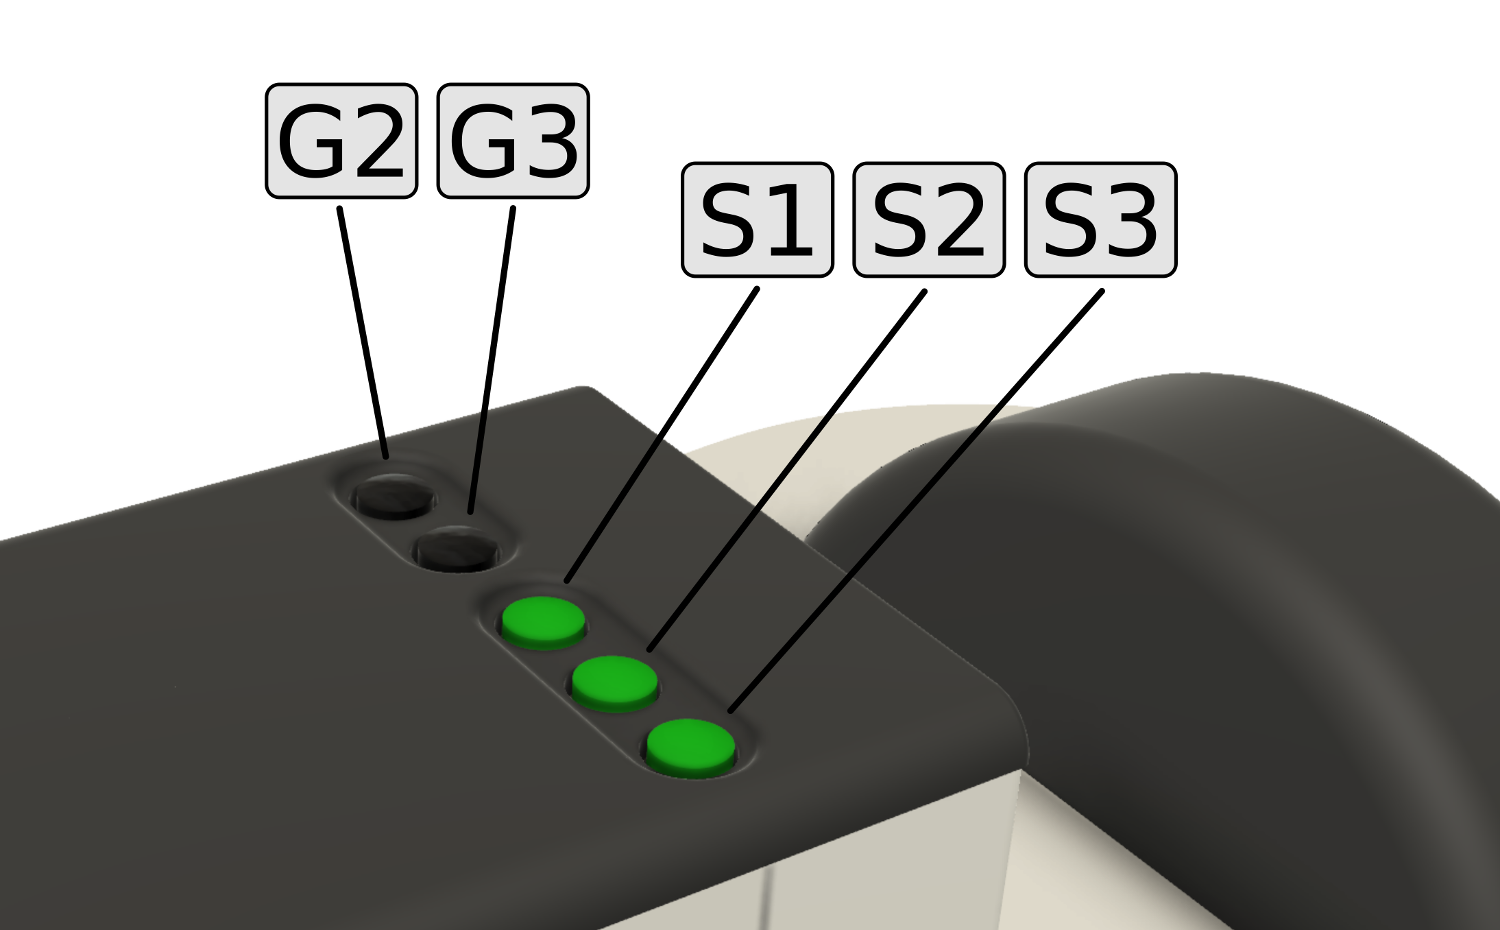
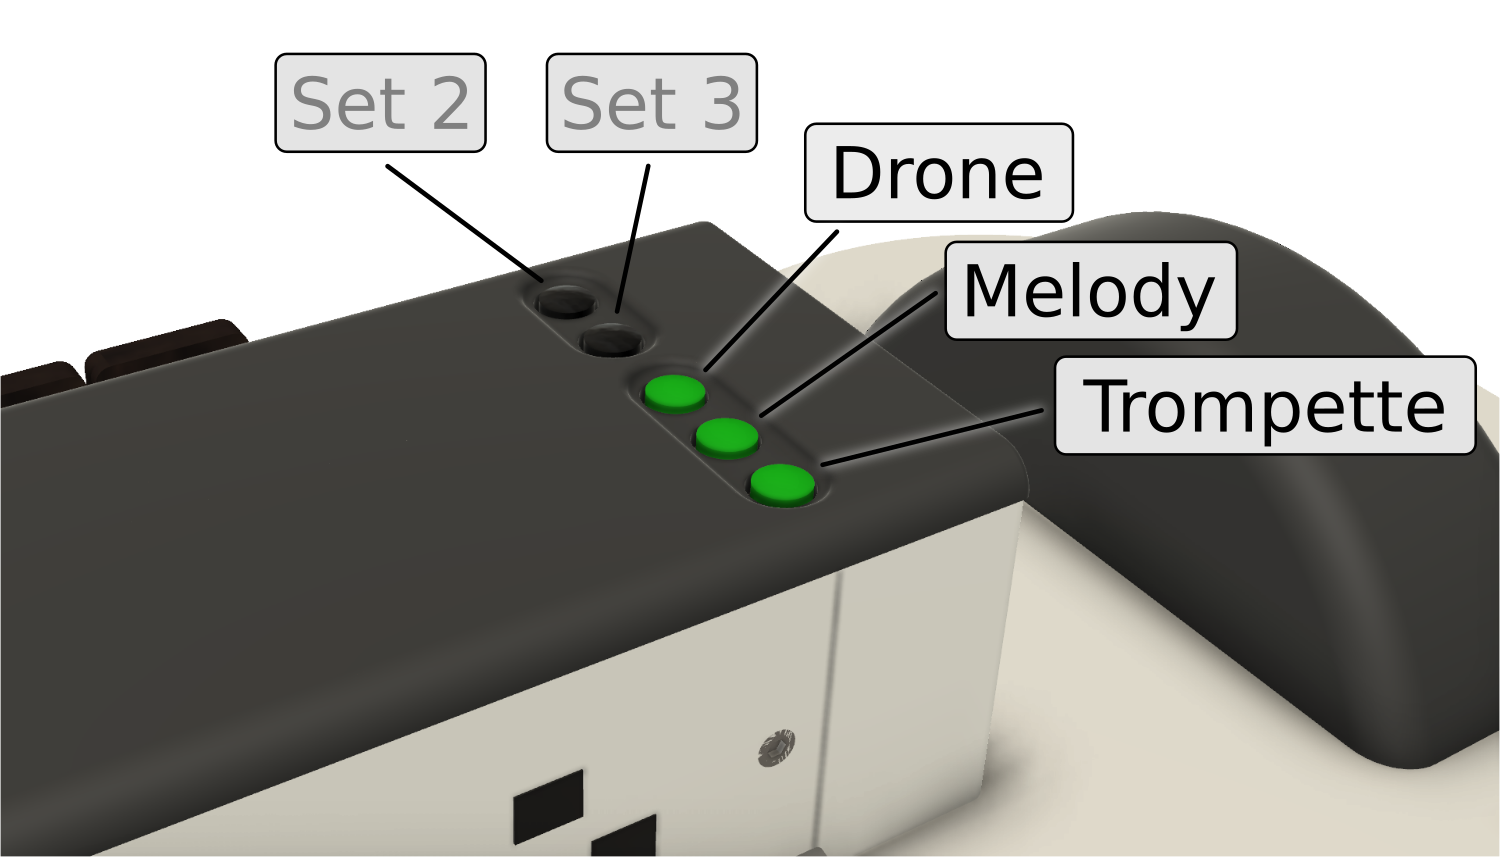
Clarify string and string group buttons. Fixes midigurdy/midigurdy#31

diff --git a/source/Getting_to_know_the_MidiGurdy.rst b/source/Getting_to_know_the_MidiGurdy.rst
@@ -108,52 +108,48 @@ The lid of the tangent box contains five buttons, arranged in two groups. Let’
 look at the group of three buttons closest to the player first, called the
 “String Buttons“.
 
-The String Buttons (S1 S2 S3)
-~~~~~~~~~~~~~~~~~~~~~~~~~~~~~
+The String Buttons (Drone, Melody, Trompette)
+~~~~~~~~~~~~~~~~~~~~~~~~~~~~~~~~~~~~~~~~~~~~~
 
 These buttons are used to switch individual strings on and off (lift them on
 and off the wheel). The order of the buttons follows the string positions on
 an acoustic hurdy-gurdy:
 
-*   **S1** drone string (closest to the keyboard)
+*   **Drone string**, closest to the keyboard
 
-*   **S2** melody string (centre)
+*   **Melody string**, in the middle
 
-*   **S3** trompette string (closest to the player)
+*   **Trompette string**, closest to the player
 
 
 Press any of these buttons, turn the crank and notice how the string sound gets
 switched on or off. An illuminated button means the string is currently
 switched on.
 
-The Group Buttons (G2 G3)
-~~~~~~~~~~~~~~~~~~~~~~~~~
+The String Set Buttons (Set 2 and Set 3)
+~~~~~~~~~~~~~~~~~~~~~~~~~~~~~~~~~~~~~~~~
 
-The two black buttons on the tangent box lid are called the “Group“ buttons.
-The MidiGurdy has a total of nine strings but only three String Buttons for
-switching the strings on and off. This is why the Strings are arranged in three
-groups:
+The two black buttons on the tangent box lid are called the “String Set“
+buttons.  As the MidiGurdy only has one button for each string type (drone,
+melody, trompette) but three possible strings for each type, the string set
+buttons can be used to control the other two strings of each type.
 
-* Group 1 – Drone 1, Melody 1, Trompette 1 (activated by default)
+If you only press the String Buttons **Drone**, **Melody** or **Trompette** you
+are switching the first string of each type.
 
-* Group 2 – Drone 2, Melody 2, Trompette 2 ( activated with **G2**)
+If you want to control the second string of any type, simply hold the **Set 2**
+button while pressing any of the string buttons.
 
-* Group 3 – Drone 3, Melody 3, Trompette 3 (activated with **G3**)
+If you want to control the third string of any type, simply hold the **Set 3**
+button while pressing any of the string buttons.
 
-If you only press the String Buttons **S1**, **S2** or **S3** you are controlling the strings in
-**Group 1**, as this group is active by default (i.e. if you don’t press any of the Group Buttons.)
-
-If you want to control the strings in **Group 2** instead, you simply hold the
-**G2** button while pressing any of the String Buttons. Or hold the **G3** button while pressing the
-String Buttons to control the strings in **Group 3**.
-
-As soon as you press one of the Group Buttons, the illumination of the String
+As soon as you press one of the String Set buttons, the illumination of the String
 Buttons changes to indicate the on/off state of the drone, melody and trompette
-string in that group.
+string in that set.
 
-Pressing the Group Buttons only affects which strings you switch on and off
-with the String Buttons.  They have no other effect on the instrument.  You can
-mix and match strings from all groups while playing, or even play all nine
+The String Set buttons only affect which strings you switch on and off with the
+String Buttons.  They have no other effect on the instrument.  You can mix and
+match strings from different string sets while playing, or even play all nine
 strings simultaneously.
 
 
